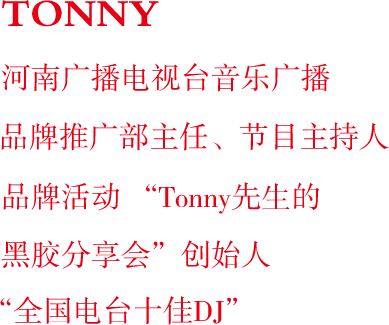
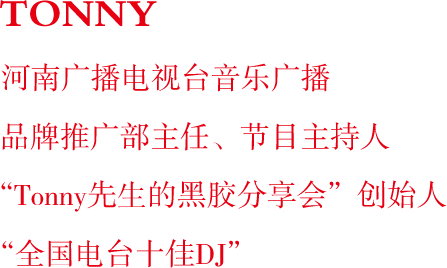
第三天修改

diff --git a/src/components/Host1/Host1.vue b/src/components/Host1/Host1.vue
@@ -132,15 +132,15 @@ $color = #e60012;
         .text-wrap {
           // top: 35px;
           left: 50px;
-          width: 389px;
-          height: 325px;
+          width: 447px;
+          height: 268px;
           background: url('./text-1.png') center center no-repeat;
-          background-size: 389px 325px;
+          background-size: 447px 268px;
         }
 
         .avatar-wrap {
-          top: 100px;
-          right: 60px;
+          top: 0px;
+          right: 40px;
         }
       }
 
